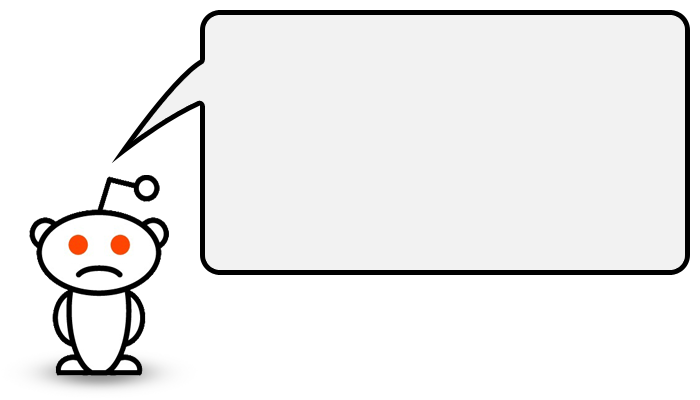
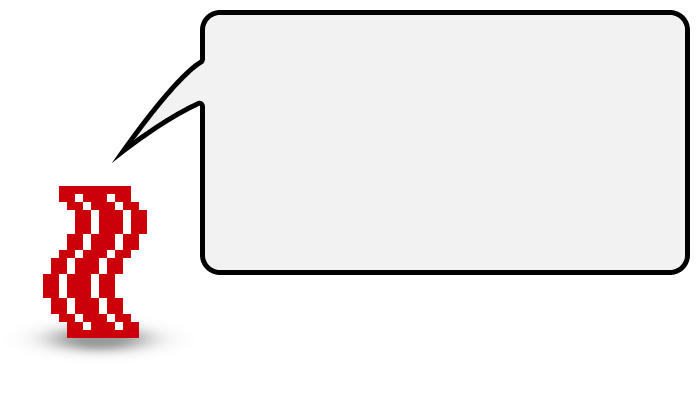
Change a lot of reddit to bacon

Changed region(s): [[0.03, 0.42, 0.24, 0.99]]

diff --git a/flamejam/templates/index.html b/flamejam/templates/index.html
@@ -3,7 +3,7 @@
 {% block title %}Home{% endblock %}
 
 {% block content %}
-<h1>Reddit Game Jam - Home</h1>
+<h1>BaconGameJam - Home</h1>
 
 {% set counting = false %}
 {% for jam in jams if jam.start_time < current_datetime < jam.end_time and not counting %}
@@ -22,14 +22,16 @@
 
 <div class="columns">
     <div> <!-- Column 1 -->
-        <h2>About Reddit Game Jam</h2>
+        <h2>About BaconGameJam</h2>
         <div class="info">
             <p>
                 A game jam is an event during which all participants <b>create
                 games</b> according to a provided theme <b>within a short amount of time</b>
-                (usually between two days to a week). The Reddit Game Jam hosts game jams as
-                part of the wonderful <a href="http://reddit.com/r/redditgamejam" target="_blank">
-                Reddit community</a>.
+                (usually between two days to a week). The BaconGameJam was founded
+                as "RedditGameJam" on the wonderful
+                <a href="http://reddit.com/r/redditgamejam" target="_blank">
+                Reddit community</a>, and later renamed to BaconGameJam due
+                to trademark issues.
             </p>
             <p>
                 <b>Anybody can participate</b>, experienced or newbie, flash developer or
@@ -41,9 +43,12 @@
                 and of course karma.
             </p>
             <p>
-                Feel free to <a href="{{ url_for('register') }}">register and participate</a>. Please link your account with
-                your reddit account (i.e. use the same nickname). If you are not
-                already on reddit, <a href="http://www.reddit.com/login" target="_blank">go there and join</a>. You won't regret it!
+                Feel free to <a href="{{ url_for('register') }}">register and participate</a>, even
+                if you are not on <a href="http://reddit.com" target="_blank">reddit</a>
+                (but it wouldn't be to your disadvantage to
+                check it out!). If you do have an account on reddit, you are strongly
+                advised to link your BaconGameJam account with your reddit
+                account by using the same nickname!
             </p>
             <p>
                 More questions? Read the <a href="{{ url_for('faq') }}">FAQ</a>.

diff --git a/flamejam/templates/register.html b/flamejam/templates/register.html
@@ -13,24 +13,23 @@
                 <p>{{ form_errors(form) }}</p>
                 <ul class="form-errors">
                     <li>
-                        You <b>must</b> use your reddit username, we will check that in the next step!
+                        You are <i>strongly advised</i> to use your reddit username!
                     </li>
                 </ul>
-                <div align="center" class="input-info">Not on reddit? <a href="http://reddit.com/login" target="_blank">Register there first.</a></div>
+                <!--<div align="center" class="input-info">Not on reddit? You should <a href="http://reddit.com/login" target="_blank">register there</a> first.</div>-->
                 <hr />
                 <table class="details">
                     <tr>
                         <th width="">{{ form.username.label }}</th>
                         <td>
                             {{ form.username(class="text-input") }}
-                            <span class="input-info" title="Allowed characters: letters, numbers, dashes, underscores">your reddit username</span>
+                            <span class="input-info" title="Allowed characters: letters, numbers, dashes, underscores">your username</span>
                         </td>
                     </tr>
                     <tr>
                         <th>{{ form.password.label }}</th>
                         <td>{{ form.password(class="password-input") }}
                         <span class="input-info" title="all characters allowed">min 8 characters</span>
-                        <div class="input-info">You <b>don't</b> need to use your reddit password.</div>
                         </td>
                     </tr>
                     <tr>

diff --git a/flamejam/static/style.css b/flamejam/static/style.css
@@ -213,8 +213,8 @@ div#HEADER h2 {
 }
 
 div#HEADER div#ICON {
-    background: url("/static/img/alien.png");
-    width: 46px;
+    background: url("/static/gfx/monitor.png");
+    width: 80px;
     height: 72px;
     display: block;
     float: left;
@@ -263,7 +263,7 @@ div#HEADER div#MINI_SEARCH form input#MINI_SEARCH_S:active {
 
 div#HEADER div#HEADLINE {
     color: #FFF;
-    margin-left: 70px;
+    margin-left: 100px;
     height: 54px;
 }
 
@@ -290,7 +290,7 @@ div#HEADER div#HEADLINE h1 a {
 
 div#HEADER div#MENU {
     color: #FFF;
-    margin-left: 70px;
+    margin-left: 100px;
 }
 
 div#HEADER div#MENU a,
@@ -857,7 +857,8 @@ ul.screenshots li div.caption {
 }
 
 .error-page .title {
-    font-family: 'Loved by the King', "URW Chancery L", script;
+    /* font-family: 'Loved by the King', "URW Chancery L", script; */
+    font-family: 'VT323', monospace;
     font-weight: bold;
     font-size: 30pt;
     position: absolute;
@@ -869,7 +870,8 @@ ul.screenshots li div.caption {
 }
 
 .error-page .text {
-    font-family: 'Loved by the King', "URW Chancery L", script;
+    /* font-family: 'Loved by the King', "URW Chancery L", script; */
+    font-family: 'VT323', monospace;
     font-weight: bold;
     font-size: 20pt;
     position: absolute;

diff --git a/flamejam/templates/base.html b/flamejam/templates/base.html
@@ -1,7 +1,7 @@
 <!doctype html>
 <html>
 <head>
-    <title>RGJ » {% block title %}You were eaten hardly!{% endblock %}</title>
+    <title>{% block title %}You were eaten hardly!{% endblock %} - BaconGameJam</title>
     <link rel="stylesheet" type="text/css" href="{{ url_for('static', filename='style.css') }}">
     <link rel="stylesheet" type="text/css" href="{{ url_for('static', filename='jquery.lightbox-0.5.css') }}">
     <script type="text/javascript" src="{{ url_for('static', filename='jquery.js') }}"></script>
@@ -37,8 +37,8 @@
                 </form>
             </div>
             <div id="HEADLINE">
-                <h2><a href="{{ url_for('index') }}">You were eaten by a</a></h2>
-                <h1><a href="{{ url_for('index') }}">Reddit Game Jam</a></h1>
+                <h2><a href="{{ url_for('index') }}">Om nom nom,</a></h2>
+                <h1><a href="{{ url_for('index') }}">BaconGameJam</a></h1>
             </div>
             <div id="MENU">
                 <div id="LOGIN">

diff --git a/flamejam/templates/links.html b/flamejam/templates/links.html
@@ -52,7 +52,7 @@
 <div class="info">
     <p>
         We are not the only ones. Go check out these game jams as well,
-        they are all awesome (not as awesome as redditgamejam, but
+        they are all awesome (not as awesome as BaconGameJam, but
         still... good).
 
         <ul>
@@ -79,7 +79,7 @@
             - the awesome reddit community.</li>
 
             <li><a target="_blank" href="http://reddit.com/r/redditgamejam">RedditGameJam subreddit</a>
-            - the most awesome subreddit. It's like double rainbows.</li>
+            - the most awesome subreddit. Our game jam was founded here.</li>
 
             <li><a target="_blank" href="http://reddit.com/r/gamedev">gamedev subreddit</a>
             - another great subreddit for all game developers.</li>

diff --git a/flamejam/templates/faq.html b/flamejam/templates/faq.html
@@ -23,9 +23,9 @@
         <b>Everyone.</b> It is as simple as that.
     </p>
     <p>
-        You probably want a reddit account, since this is the reddit
-        game jam. You do not need any skills, you will gain them here.
-        We won't exclude anyone for their inexperience.
+        You probably want a reddit account, since we were founded on reddit
+        and reddit is really awesome. You do not need any skills, you will
+        gain them here. We won't exclude anyone for their inexperience.
     </p>
 </div>
 

diff --git a/flamejam/templates/error.html b/flamejam/templates/error.html
@@ -4,7 +4,8 @@
 
 {# Add font for error displaying #}
 {% block head %}
-    <link href='http://fonts.googleapis.com/css?family=Loved+by+the+King&subset=latin&v2' rel='stylesheet' type='text/css'>
+{# <link href='http://fonts.googleapis.com/css?family=Loved+by+the+King&subset=latin&v2' rel='stylesheet' type='text/css'> #}
+    <link href='http://fonts.googleapis.com/css?family=VT323&subset=latin&v2' rel='stylesheet' type='text/css'>
 {% endblock %}
 
 {% block content %}

diff --git a/flamejam/templates/contact.html b/flamejam/templates/contact.html
@@ -11,7 +11,7 @@
 <a name="irc"></a><h2>IRC</h2>
 <div class="info">
     <p>
-        Meet us in IRC on <a href="http://webchat.freenode.net/?channels=redditgamejam" target="_blank">irc.freenode.org#redditgamejam</a>
+        Meet us in IRC on <a href="http://webchat.freenode.net/?channels=bacongamejam" target="_blank">irc.freenode.org#bacongamejam</a>
     </p>
     <p>
         Most of us will be in the channel during the jams, but you can

diff --git a/flamejam/templates/rules.html b/flamejam/templates/rules.html
@@ -41,7 +41,7 @@
         previous jams, from IRC and from the subreddit. It will be announced
         at the beginning of the contest here, in the
         <a href="http://reddit.com/r/redditgamejam" target="_blank">
-            RedditGameJam subreddit</a>
+            BaconGameJam subreddit</a>
         and on <a href="{{ url_for('contact') }}#irc">IRC</a>. Everyone
         may suggest a theme.
     </p>

diff --git a/flamejam/views.py b/flamejam/views.py
@@ -71,34 +71,37 @@ def register():
         email = form.email.data
         receive_emails = form.receive_emails.data
         new_participant = Participant(username, password, email, receive_emails)
+        new_participant.is_verified = True
         db.session.add(new_participant)
         db.session.commit()
-        flash("Your account has been created, and is now waiting to be verified.")
-        return redirect(url_for('verify', username = username))
+        #flash("Your account has been created, and is now waiting to be verified.")
+        #return redirect(url_for('verify', username = username))
+        flash('Your account has been created, you can login now.')
+        return redirect(url_for('login'))
 
     return render_template('register.html', form=form, error=error)
 
-@app.route('/verify/<username>', methods = ["POST", "GET"])
-def verify(username):
-    participant_to_verify = Participant.query.filter_by(username = username).first_or_404()
-    if participant_to_verify.is_verified:
-        flash("%s's account is already validated." % participant_to_verify.username.capitalize())
-        return redirect(url_for('index'))
+#@app.route('/verify/<username>', methods = ["POST", "GET"])
+#def verify(username):
+#    participant_to_verify = Participant.query.filter_by(username = username).first_or_404()
+#    if participant_to_verify.is_verified:
+#        flash("%s's account is already validated." % participant_to_verify.username.capitalize())
+#        return redirect(url_for('index'))
 
-    form = VerifyForm()
-    submitted = False
+#    form = VerifyForm()
+#    submitted = False
 
-    if form.validate_on_submit():
-        submitted = True
-        if check_reddit(username, participant_to_verify.getVerificationHash()):
-            flash('Verification successful. You can login now.')
-            participant_to_verify.is_verified = True
-            db.session.commit()
-            return redirect(url_for('login'))
+#    if form.validate_on_submit():
+#        submitted = True
+#        if check_reddit(username, participant_to_verify.getVerificationHash()):
+#            flash('Verification successful. You can login now.')
+#            participant_to_verify.is_verified = True
+#            db.session.commit()
+#            return redirect(url_for('login'))
 
-    return render_template('verify.html', submitted = submitted,
-        participant_to_verify = participant_to_verify,
-        form = form, thread = app.config["REDDIT_CONFIRM_THREAD"])
+#    return render_template('verify.html', submitted = submitted,
+#        participant_to_verify = participant_to_verify,
+#        form = form, thread = app.config["REDDIT_CONFIRM_THREAD"])
 
 @app.route('/logout')
 def logout():

diff --git a/flamejam/login.py b/flamejam/login.py
@@ -52,7 +52,8 @@ def require_admin():
     if not get_current_user().is_admin:
         abort(403)
 
-def check_reddit(username, hash):
+# Commented out because we removed reddit verification
+"""def check_reddit(username, hash):
     connection = HTTPConnection(app.config['REDDIT_SERVER'])
     url = app.config['REDDIT_CONFIRM_THREAD'] + ".json"
     data = ""
@@ -90,4 +91,4 @@ def check_reddit(username, hash):
                     if data["author"] == username and hash in data["body"]:
                         return True
 
-    return False
+    return False"""

diff --git a/flamejam/__init__.py b/flamejam/__init__.py
@@ -7,8 +7,8 @@ app = Flask(__name__)
 app.config['SQLALCHEMY_DATABASE_URI'] = 'sqlite:///flamejam.db'
 app.config['SQLALCHEMY_ECHO'] = True
 app.config['SECRET_KEY'] = 'lolsecret'
-app.config['REDDIT_SERVER'] = 'reddit.com'
-app.config['REDDIT_CONFIRM_THREAD'] = 'http://reddit.com/r/test/comments/iot3h/api_test/'
+#app.config['REDDIT_SERVER'] = 'reddit.com'
+#app.config['REDDIT_CONFIRM_THREAD'] = 'http://reddit.com/r/test/comments/iot3h/api_test/'
 db = SQLAlchemy(app)
 Markdown(app, safe_mode="escape")
 
